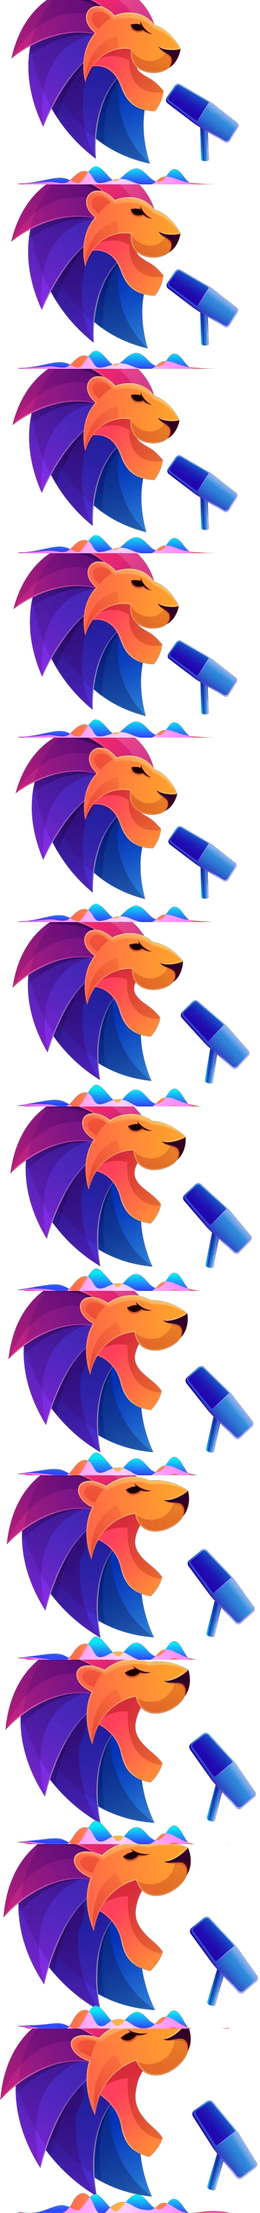
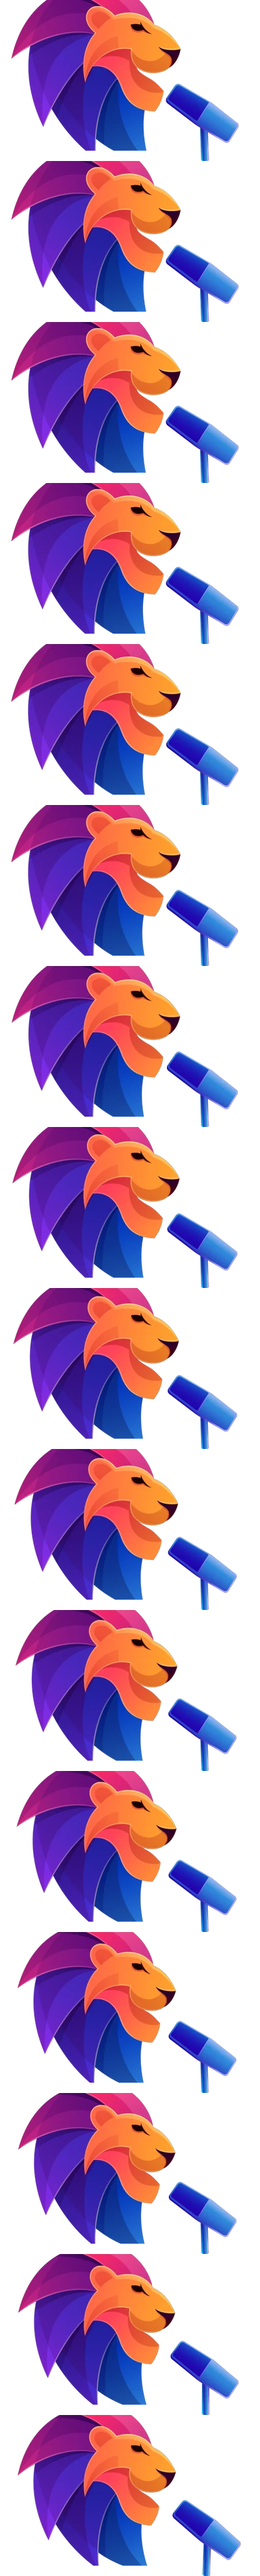
The lion talks quietly
The mouth was too much: the roar at the top of the clip on every loud
syllable, the head lifting with it, a bloom pulsing behind the mane
and a bar meter jumping underneath. At the size a coach is shown that
read as shouting, and the light next to the face was where the eye
went instead of the face.

The sprite is sixteen frames again but they stop where a word stops -
the mouth opening as a word opens it, the head still - and the
soundwave under the lion is cropped out. The envelope that feeds it is
gained so ordinary speech sits mid-range and only the loudest syllable
reaches the end, and eased so the frames are walked rather than
jumped. The bloom and the bar meter are gone; nothing moves but the
mouth.

diff --git a/src/components/talking-lion.tsx b/src/components/talking-lion.tsx
@@ -37,8 +37,10 @@ export interface TalkingLionHandle {
 // honest but wasn't speech. What works is the artist's own animation:
 // the brand MOV of the lion going from closed mouth to roar, cut into
 // twelve frames (lion-mouth.tsx) and scrubbed by the audio's amplitude
-// - loud syllables open the mouth, gaps close it. The bloom behind the
-// mane and the bar meter underneath still breathe with the same level.
+// - syllables open the mouth, gaps close it. Nothing else moves: the
+// bloom behind the mane and the bar meter underneath were tried and
+// pulled, because a light that pulses next to a face that's talking
+// is the thing your eye goes to instead of the face.
 //
 // Two drive modes:
 //   audioSrc  - real amplitude off an AnalyserNode. The production
@@ -47,7 +49,6 @@ export interface TalkingLionHandle {
 //               be tapped for amplitude, so the pulse is driven by an
 //               envelope pumped on each word boundary. Fallback only.
 
-const BAR_COUNT = 24;
 
 /** A word the coach says, and the symbol for it - shown while it's being
  *  spoken, then held afterwards as a summary. Times are in seconds
@@ -82,7 +83,7 @@ export const TalkingLion = forwardRef<
   { text, audioSrc, cues, autoPlay = false, onEnded, className = "" },
   ref,
 ) {
-  const [level, setLevel] = useState(0); // 0..1 live amplitude, smoothed
+  const [, setLevel] = useState(0); // 0..1 live amplitude, smoothed - kept for callers that read it later
   // The mouth follows a faster envelope than the bloom: quick to open
   // on a syllable, a little slower to close, so it flaps like speech
   // rather than swelling like breath.
@@ -104,11 +105,8 @@ export const TalkingLion = forwardRef<
   const analyserRef = useRef<AnalyserNode | null>(null);
   const ctxRef = useRef<AudioContext | null>(null);
   const smoothedRef = useRef(0);
-  const barsRef = useRef<HTMLDivElement | null>(null);
   // Read inside the animation loop, which is created once per playback.
   const cuesRef = useRef<SpokenCue[]>(cues ?? []);
-  // Frequency bins drive the bar meter directly (no React state per frame).
-  const freqRef = useRef<Uint8Array | null>(null);
 
   const stopLoop = useCallback(() => {
     if (rafRef.current !== null) cancelAnimationFrame(rafRef.current);
@@ -119,9 +117,6 @@ export const TalkingLion = forwardRef<
     setCueIndex(-1);
     smoothedRef.current = 0;
     envelopeRef.current = 0;
-    barsRef.current
-      ?.querySelectorAll<HTMLElement>("[data-bar]")
-      .forEach((b) => (b.style.transform = "scaleY(0.12)"));
   }, []);
 
   useEffect(() => stopLoop, [stopLoop]);
@@ -130,21 +125,11 @@ export const TalkingLion = forwardRef<
     cuesRef.current = cues ?? [];
   }, [cues]);
 
-  const paintBars = useCallback((levels: (i: number) => number) => {
-    const bars = barsRef.current?.querySelectorAll<HTMLElement>("[data-bar]");
-    bars?.forEach((b, i) => {
-      const v = Math.max(0.12, Math.min(1, levels(i)));
-      b.style.transform = `scaleY(${v.toFixed(3)})`;
-    });
-  }, []);
-
   /** Real amplitude: RMS for the pulse, frequency bins for the bars. */
   const runAmplitudeLoop = useCallback(() => {
     const analyser = analyserRef.current;
     if (!analyser) return;
     const wave = new Uint8Array(analyser.fftSize);
-    const freq = new Uint8Array(analyser.frequencyBinCount);
-    freqRef.current = freq;
     const tick = () => {
       analyser.getByteTimeDomainData(wave);
       let sum = 0;
@@ -158,12 +143,15 @@ export const TalkingLion = forwardRef<
       const target = Math.min(1, rms * 6);
       smoothedRef.current += (target - smoothedRef.current) * 0.35;
       setLevel(smoothedRef.current);
-      // Attack fast, release slower - and a touch above the bloom, so
-      // ordinary speech opens the mouth properly and only silence
-      // closes it.
-      const want = Math.min(1, rms * 7.5);
+      // The mouth: opens a little faster than it closes, and both are
+      // eased hard enough that a frame is never skipped - sixteen
+      // frames of travel at most a couple per tick, which is what
+      // reads as motion rather than flicker.
+      // Gain set so ordinary speech sits around the middle of the
+      // sprite and only the loudest syllables reach the end of it.
+      const want = Math.min(1, rms * 4.5);
       mouthRef.current +=
-        (want - mouthRef.current) * (want > mouthRef.current ? 0.6 : 0.3);
+        (want - mouthRef.current) * (want > mouthRef.current ? 0.28 : 0.18);
       setMouth(mouthRef.current);
 
       // Which word is being said right now - the same clock the audio
@@ -176,41 +164,24 @@ export const TalkingLion = forwardRef<
         setCueIndex((prev) => (prev === found ? prev : found));
       }
 
-      analyser.getByteFrequencyData(freq);
-      // Nearly all voice energy sits below ~4 kHz - a sixth of the bins
-      // at a 48 kHz sample rate - so the meter only samples that band,
-      // slightly log-spaced so the highs don't sit permanently dark.
-      const usable = Math.floor(freq.length / 6);
-      paintBars((i) => {
-        const bin = Math.floor(Math.pow(i / BAR_COUNT, 1.4) * usable);
-        return (freq[bin] / 255) * 1.3;
-      });
       rafRef.current = requestAnimationFrame(tick);
     };
     tick();
-  }, [paintBars]);
+  }, []);
 
   /** Synthesized stand-in: a syllable-rate flutter under a decaying envelope. */
   const runEnvelopeLoop = useCallback(() => {
     const tick = () => {
       envelopeRef.current *= 0.94; // decays between words
       const t0 = performance.now() / 1000;
-      mouthRef.current = envelopeRef.current * (0.55 + 0.45 * Math.abs(Math.sin(t0 * 2 * Math.PI * 4.5)));
+      const want = envelopeRef.current * 0.8 * (0.55 + 0.45 * Math.abs(Math.sin(t0 * 2 * Math.PI * 4.5)));
+      mouthRef.current += (want - mouthRef.current) * 0.3;
       setMouth(mouthRef.current);
-      const t = performance.now() / 1000;
-      const flutter = 0.55 + 0.45 * Math.sin(t * 2 * Math.PI * 5.2);
-      const target = envelopeRef.current * flutter;
-      smoothedRef.current += (target - smoothedRef.current) * 0.4;
-      setLevel(smoothedRef.current);
-      paintBars(
-        (i) =>
-          smoothedRef.current *
-          (0.4 + 0.6 * Math.abs(Math.sin(t * 4 + i * 0.9))),
-      );
+      setLevel(envelopeRef.current);
       rafRef.current = requestAnimationFrame(tick);
     };
     tick();
-  }, [paintBars]);
+  }, []);
 
   /** The audio graph - element into analyser into speakers - built once. */
   const graph = useCallback(() => {
@@ -342,23 +313,7 @@ export const TalkingLion = forwardRef<
   return (
     <div className={`flex flex-col items-center gap-4 ${className}`}>
       <div className="relative w-full max-w-xs">
-        {/* Bloom behind the mane, breathing with the voice */}
-        <div
-          aria-hidden
-          className="absolute inset-[-12%] rounded-full will-change-transform"
-          style={{
-            background:
-              "radial-gradient(circle at 50% 45%, rgba(245,61,224,0.35), rgba(34,217,245,0.18) 55%, transparent 75%)",
-            opacity: 0.25 + level * 0.75,
-            transform: `scale(${(0.96 + level * 0.12).toFixed(3)})`,
-            filter: "blur(18px)",
-          }}
-        />
-        <LionMouth
-          level={mouth}
-          className="relative w-full will-change-transform"
-          style={{ transform: `scale(${(1 + level * 0.03).toFixed(3)})` }}
-        />
+        <LionMouth level={mouth} className="relative w-full" />
         {/* The word being spoken, with its symbol. The row keeps its
             height whether or not a cue is showing, so the lion never
             shifts as words come and go. */}
@@ -397,26 +352,6 @@ export const TalkingLion = forwardRef<
           </div>
         )}
 
-        {/* Amplitude bars - the soundwave under the lion, live */}
-        <div
-          ref={barsRef}
-          aria-hidden
-          className="mt-2 flex h-10 items-end justify-center gap-1"
-        >
-          {Array.from({ length: BAR_COUNT }).map((_, i) => (
-            <span
-              key={i}
-              data-bar
-              className="w-1.5 origin-bottom rounded-full"
-              style={{
-                height: "100%",
-                transform: "scaleY(0.12)",
-                background: `hsl(${190 + (i / BAR_COUNT) * 130}, 90%, 60%)`,
-                transition: "transform 60ms linear",
-              }}
-            />
-          ))}
-        </div>
       </div>
 
       {/* Always mounted, src managed by hand, so it can be primed inside

diff --git a/src/components/lion-mouth.tsx b/src/components/lion-mouth.tsx
@@ -1,27 +1,31 @@
 // The lion, mouth moving.
 //
-// Twelve frames of the brand animation - the lion from closed mouth to
-// full roar, head lifting with it - cut from the 2.5-second MOV the
-// mark was delivered as, laid in one vertical sprite (public/lion-
-// mouth.webp), and picked by how loud the coach is right now. Frame 0
-// is closed and at rest; frame 11 is the roar. The player hands in a
-// level between 0 and 1 from the audio's own amplitude, and this shows
-// the frame that matches: the mouth opens on the loud syllables and
-// closes in the gaps, which is what lip-sync is at the distance a
-// phone is held. No morphing, no phonemes - scrubbing the artist's own
-// frames, which is why it looks like the lion and not a puppet of it.
+// Sixteen frames of the brand animation - the lion from closed mouth
+// to a moderately open one - cut from the 2.5-second MOV the mark was
+// delivered as, laid in one vertical sprite (public/lion-mouth.webp),
+// and picked by how loud the coach is right now. Frame 0 is closed and
+// at rest; the last is as far as the mouth goes while talking. The
+// full roar at the top of the clip is left out on purpose: at the
+// size a coach is shown, a roar on every loud syllable read as
+// shouting. The soundwave under the lion is cropped out too. The
+// player hands in a level between 0 and 1 from the audio's own
+// amplitude, and this shows the frame that matches: the mouth opens
+// on the syllables and closes in the gaps, which is what lip-sync is
+// at the distance a phone is held. No morphing, no phonemes -
+// scrubbing the artist's own frames, which is why it looks like the
+// lion and not a puppet of it.
 //
 // Regenerate the sprite with the notes in scripts/build-lion-mouth.md.
 
-export const MOUTH_FRAMES = 12;
-/** The sprite's frame size - 400 × 283, the mark's own proportion. */
-export const MOUTH_ASPECT = "400 / 283";
+export const MOUTH_FRAMES = 16;
+/** The sprite's frame size - 400 × 247, the lion and mic without the wave. */
+export const MOUTH_ASPECT = "400 / 247";
 
-/** The frame for a level: a gentle curve so quiet speech still moves
- *  the mouth, and the roar is kept for the loud moments. */
+/** The frame for a level, straight: the sprite's own range is the
+ *  restraint, and the envelope that feeds it does the smoothing. */
 export function mouthFrame(level: number): number {
   const v = Math.max(0, Math.min(1, level));
-  return Math.round(Math.pow(v, 0.8) * (MOUTH_FRAMES - 1));
+  return Math.round(v * (MOUTH_FRAMES - 1));
 }
 
 export function LionMouth({
@@ -29,7 +33,7 @@ export function LionMouth({
   className = "",
   style,
 }: {
-  /** 0 closed .. 1 roar. */
+  /** 0 closed .. 1 as open as talking gets. */
   level: number;
   className?: string;
   style?: React.CSSProperties;

diff --git a/src/components/coach-popin.tsx b/src/components/coach-popin.tsx
@@ -184,7 +184,7 @@ export function CoachPopIn() {
         {/* the lion, mouth moving while it speaks - the jaw envelope
             (0..6) drives the same sprite the big lion uses */}
         <span className="relative block w-[4.5rem] shrink-0">
-          <LionMouth level={jaw / 6} className="w-full" />
+          <LionMouth level={Math.min(1, jaw / 7)} className="w-full" />
         </span>
 
         <div className="flex flex-1 flex-col gap-2">

diff --git a/scripts/build-lion-mouth.md b/scripts/build-lion-mouth.md
@@ -1,0 +1,29 @@
+# The lion mouth sprite
+
+`public/lion-mouth.webp` is sixteen frames of the brand animation
+(`SpeakBetter1.mov`, 2.5 s, 75 frames, 1920 × 1080, QuickTime Animation
+with alpha), laid out vertically, 400 × 247 each: the lion from closed
+mouth at rest to a moderately open one. The roar at the top of the clip
+is left out on purpose - at the size a coach is shown, a roar on every
+loud syllable read as shouting. The soundwave under the lion is cropped
+out (crop box 114,0 → 876,470 in the source frame, with anything of the
+wave reaching into it cleared).
+
+The frames come from the *closing* half of the clip, which settles
+cleanly to rest. Openness was measured per frame as the pixel difference
+from the first frame inside the head region, and the sixteen chosen rise
+monotonically: source frames 65, 64, 63, 62, 61, 60, 59, 58, 57, 56, 55,
+54, 53, 52, 50, 49 - the last a mouth open the way a word opens it,
+with the head still.
+
+To rebuild from a new MOV:
+
+1. `ffmpeg -i SpeakBetter1.mov -pix_fmt rgba f%03d.png` - a full ffmpeg
+   (the one Playwright ships can't read MOV; the winget `Gyan.FFmpeg`
+   build can).
+2. Crop every frame to the lion and mic, measure openness, pick sixteen
+   monotonic frames from closed to as-open-as-talking-gets.
+3. Resize to 400 × 247, stack vertically, save as WebP with alpha.
+
+`src/components/lion-mouth.tsx` picks a frame from the audio level;
+`talking-lion.tsx` and `coach-popin.tsx` feed it.
